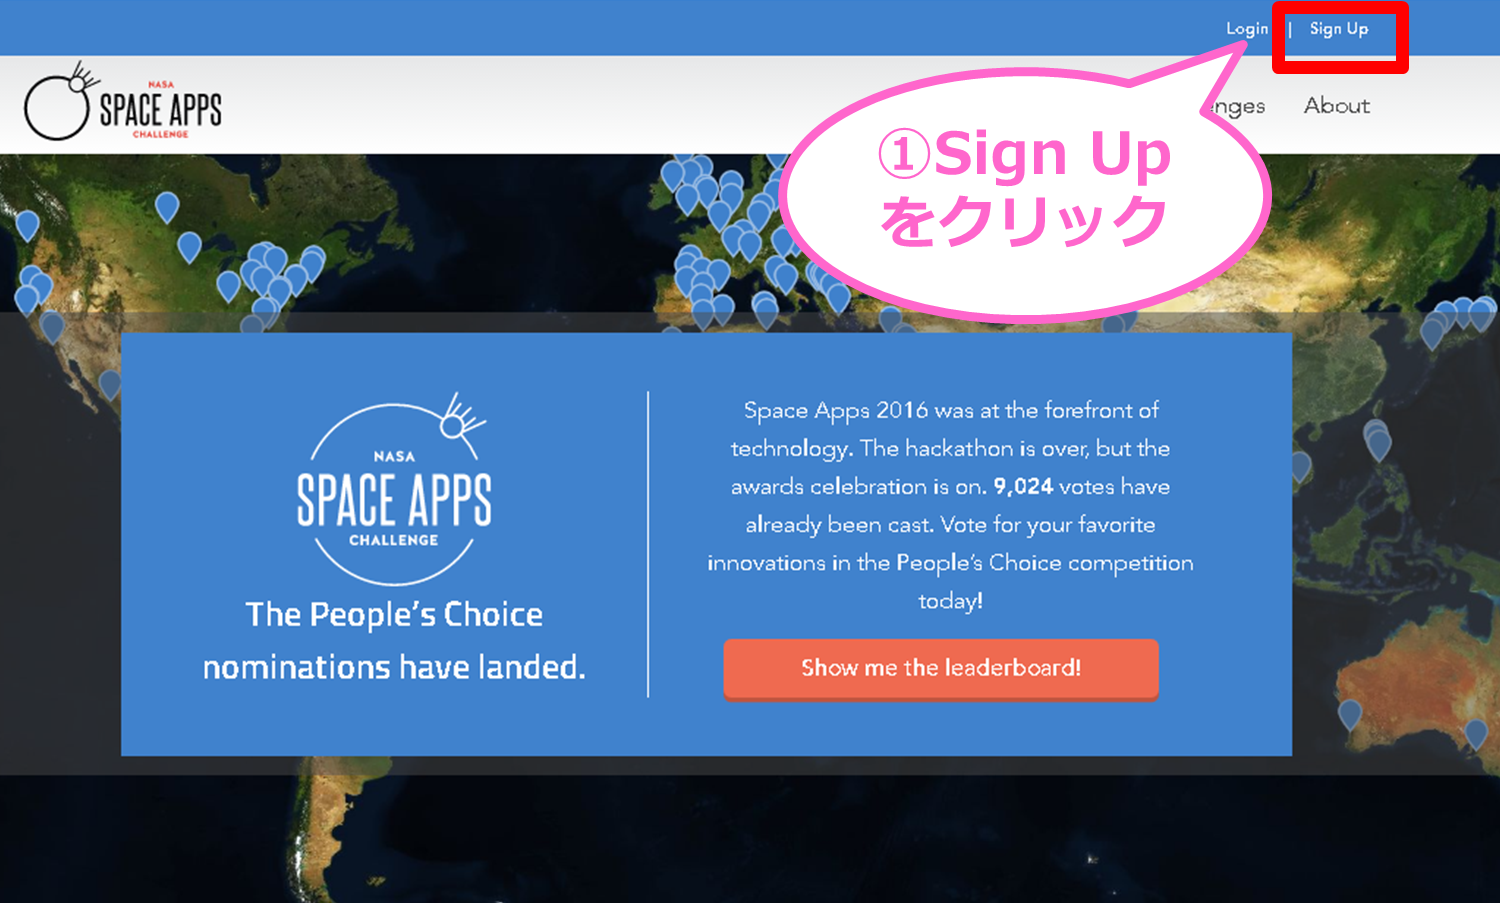
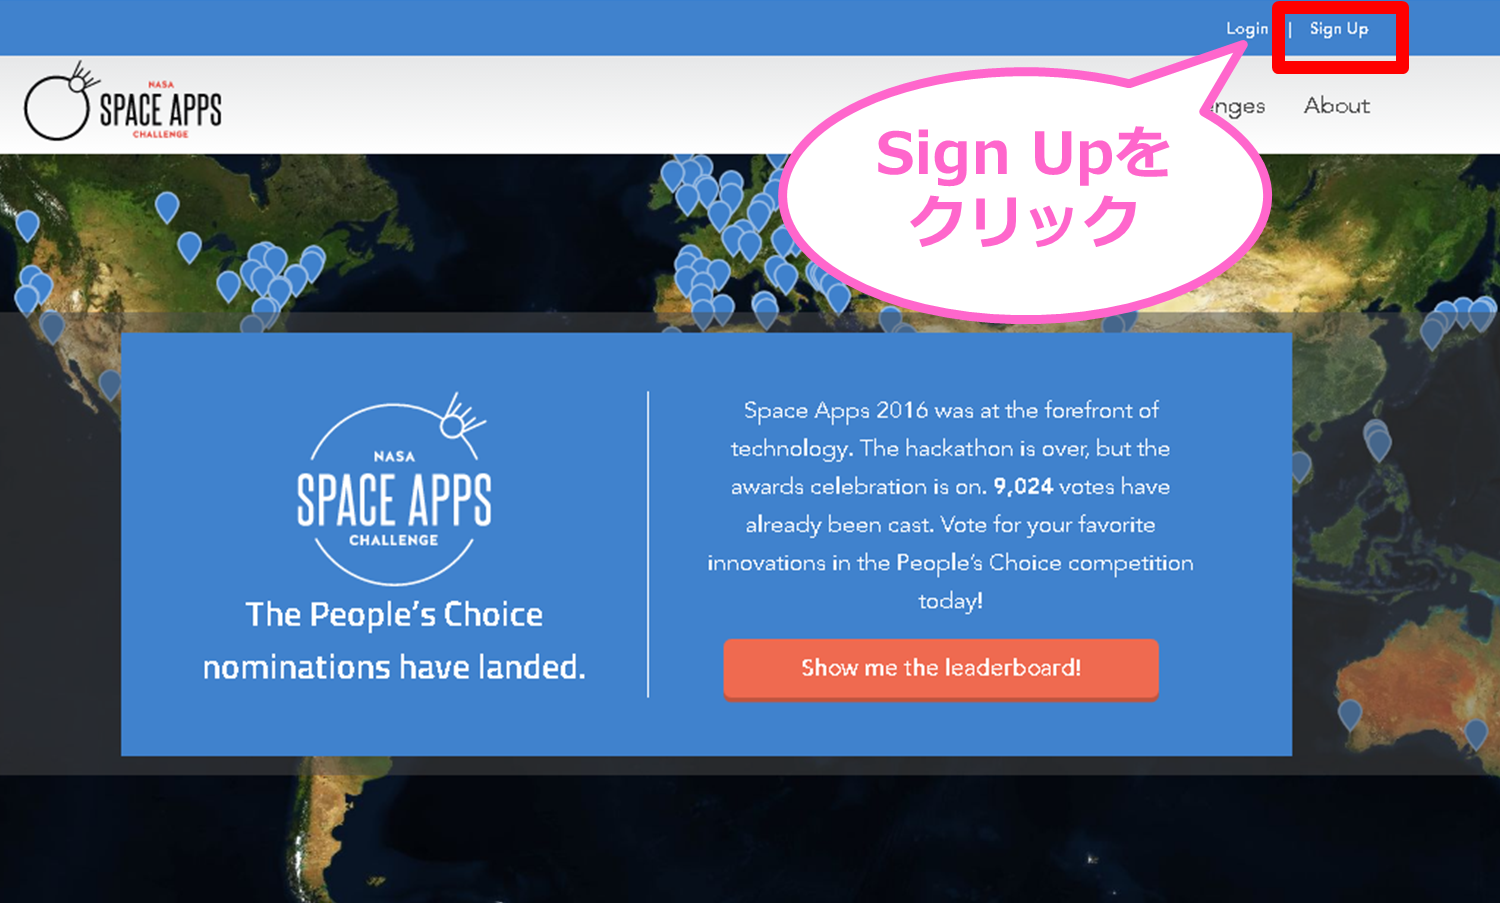
modify vote process

Changed region(s): [[0.5827, 0.124, 0.7973, 0.2791]]

diff --git a/articles/20160512/index.html b/articles/20160512/index.html
@@ -27,7 +27,10 @@
 <meta property="og:image" content="http://future-architect.github.io/images/photo_20160512_06.png">
 <meta property="og:image" content="http://future-architect.github.io/images/photo_20160512_07.png">
 <meta property="og:image" content="http://future-architect.github.io/images/photo_20160512_08.png">
-<meta property="og:updated_time" content="2016-05-11T14:43:18.048Z">
+<meta property="og:image" content="http://future-architect.github.io/images/photo_20160512_09.png">
+<meta property="og:image" content="http://future-architect.github.io/images/photo_20160512_10.png">
+<meta property="og:image" content="http://future-architect.github.io/images/photo_20160512_11.png">
+<meta property="og:updated_time" content="2016-05-12T01:46:51.461Z">
 <meta name="twitter:card" content="summary">
 <meta name="twitter:title" content="Space Apps Challenge 2016への投票方法">
 <meta name="twitter:description" content="Space Apps ChallengeとはSpace Apps Challenge は宇宙関係のオープンデータの活用を目指し、NASA（アメリカ航空宇宙局）の呼びかけにより始まったハッカソンで、2012年から毎年1回4月に開催されています。2016年は世界135の都市で同時開催し、日本国内では会津、つくば、東京、相模原、福井、宇部、熊本（平成28年熊本震災の影響のため、熊本会場は中止となりました">
@@ -157,18 +160,22 @@
     <div class="article-entry" itemprop="articleBody">
       
         <h1 id="Space-Apps-Challengeとは"><a href="#Space-Apps-Challengeとは" class="headerlink" title="Space Apps Challengeとは"></a>Space Apps Challengeとは</h1><p>Space Apps Challenge は宇宙関係のオープンデータの活用を目指し、NASA（アメリカ航空宇宙局）の呼びかけにより始まったハッカソンで、2012年から毎年1回4月に開催されています。<br><a href="https://2016.spaceappschallenge.org/" target="_blank" rel="external">2016年</a>は世界135の都市で同時開催し、日本国内では会津、つくば、東京、相模原、福井、宇部、熊本（平成28年熊本震災の影響のため、熊本会場は中止となりました）で開催します。</p>
-<h1 id="People’s-Choice"><a href="#People’s-Choice" class="headerlink" title="People’s Choice"></a>People’s Choice</h1><p>各都市の上位2作品が、後日開催される国際コンペティションに参戦し、世界中から選出された作品とその成果を競います！<br>People’s Choiceとは一般人による投票の意味で、各都市につき1作品が選ばれます。</p>
-<p>Space Apps Challenge では、25チームに絞られた後に一般投票が行われるようです。<br><img src="/images/photo_20160512_01.png" class="img-middle-size"></p>
+<h1 id="People’s-Choice"><a href="#People’s-Choice" class="headerlink" title="People’s Choice"></a>People’s Choice</h1><p>各都市の上位2作品が、後日開催される国際コンペティションに参戦し、世界中から選出された作品とその成果を競います！</p>
+<p>また、People’s Choice とは一般人による投票の意味で、各都市につき1作品が選ばれます。<br>Space Apps Challenge では、25チームに絞られた後に一般投票が行われるようです。<br><img src="/images/photo_20160512_01.png" class="img-middle-size"></p>
 <p>2016年つくば会場のPeople’s ChoiceはThe ZEN(ザ禅)が選ばれました！<br>ぜひ以下の記事を確認下さい！<br><a href="/articles/20160511/">ハッカソン道中記#3～社会人2年目のリケジョがハッカソンに出てみました～</a></p>
 <h1 id="投票方法"><a href="#投票方法" class="headerlink" title="投票方法"></a>投票方法</h1><p>投票サイトにアクセスします</p>
 <p><strong>【投票サイト】</strong><br><strong><a href="https://2016.spaceappschallenge.org/" target="_blank" rel="external">https://2016.spaceappschallenge.org/</a></strong></p>
 <p><strong>※2016年は、5月10日～5月16日の一週間です！</strong></p>
-<h2 id="ログイン"><a href="#ログイン" class="headerlink" title="ログイン"></a>ログイン</h2><p><img src="/images/photo_20160512_02.png" class="img-middle-size"><br><img src="/images/photo_20160512_03.png" class="img-middle-size"><br><img src="/images/photo_20160512_04.png" class="img-middle-size"><br><img src="/images/photo_20160512_05.png" class="img-middle-size"></p>
-<h2 id="作品の一覧へ"><a href="#作品の一覧へ" class="headerlink" title="作品の一覧へ"></a>作品の一覧へ</h2><p><img src="/images/photo_20160512_06.png" class="img-middle-size"></p>
-<h2 id="投票する作品を選択"><a href="#投票する作品を選択" class="headerlink" title="投票する作品を選択"></a>投票する作品を選択</h2><p>Awardページから投票したいプロダクトを選びます。<br>よろしければ、ぜひとも『The ZEN』(ザ禅)に投票下さい。笑<br><img src="/images/photo_20160512_07.png" class="img-middle-size"></p>
-<h2 id="投票"><a href="#投票" class="headerlink" title="投票"></a>投票</h2><p><img src="/images/photo_20160512_08.png" class="img-middle-size"></p>
+<h2 id="ユーザ登録"><a href="#ユーザ登録" class="headerlink" title="ユーザ登録"></a>ユーザ登録</h2><p><img src="/images/photo_20160512_02.png" class="img-middle-size"><br><img src="/images/photo_20160512_03.png" class="img-middle-size"><br><img src="/images/photo_20160512_04.png" class="img-middle-size"></p>
+<h2 id="Space-AppsからEメールが来ていないか確認します"><a href="#Space-AppsからEメールが来ていないか確認します" class="headerlink" title="Space AppsからEメールが来ていないか確認します"></a>Space AppsからEメールが来ていないか確認します</h2><p><img src="/images/photo_20160512_05.png" class="img-middle-size"></p>
+<h2 id="ログイン"><a href="#ログイン" class="headerlink" title="ログイン"></a>ログイン</h2><p><img src="/images/photo_20160512_06.png" class="img-middle-size"></p>
+<p>先ほど登録したユーザ名、パスワードを入力します<br><img src="/images/photo_20160512_07.png" class="img-middle-size"></p>
+<h2 id="投票する作品を選択"><a href="#投票する作品を選択" class="headerlink" title="投票する作品を選択"></a>投票する作品を選択</h2><p>Awardページから投票したいプロダクトを選びます。<br><img src="/images/photo_20160512_08.png" class="img-middle-size"></p>
+<p>よろしければ、ぜひとも『The ZEN』(ザ禅)に投票下さい。笑<br><img src="/images/photo_20160512_09.png" class="img-middle-size"></p>
+<h2 id="投票"><a href="#投票" class="headerlink" title="投票"></a>投票</h2><p><img src="/images/photo_20160512_10.png" class="img-middle-size"></p>
 <h1 id="おしまい"><a href="#おしまい" class="headerlink" title="おしまい"></a>おしまい</h1><p>投票作業は以上です。<br>期間中は毎日投票できるので、お気に入りの作品を応援しましょう！</p>
 <p>結果が楽しみですね！</p>
+<p><img src="/images/photo_20160512_11.png"></p>
 
       
     </div>
